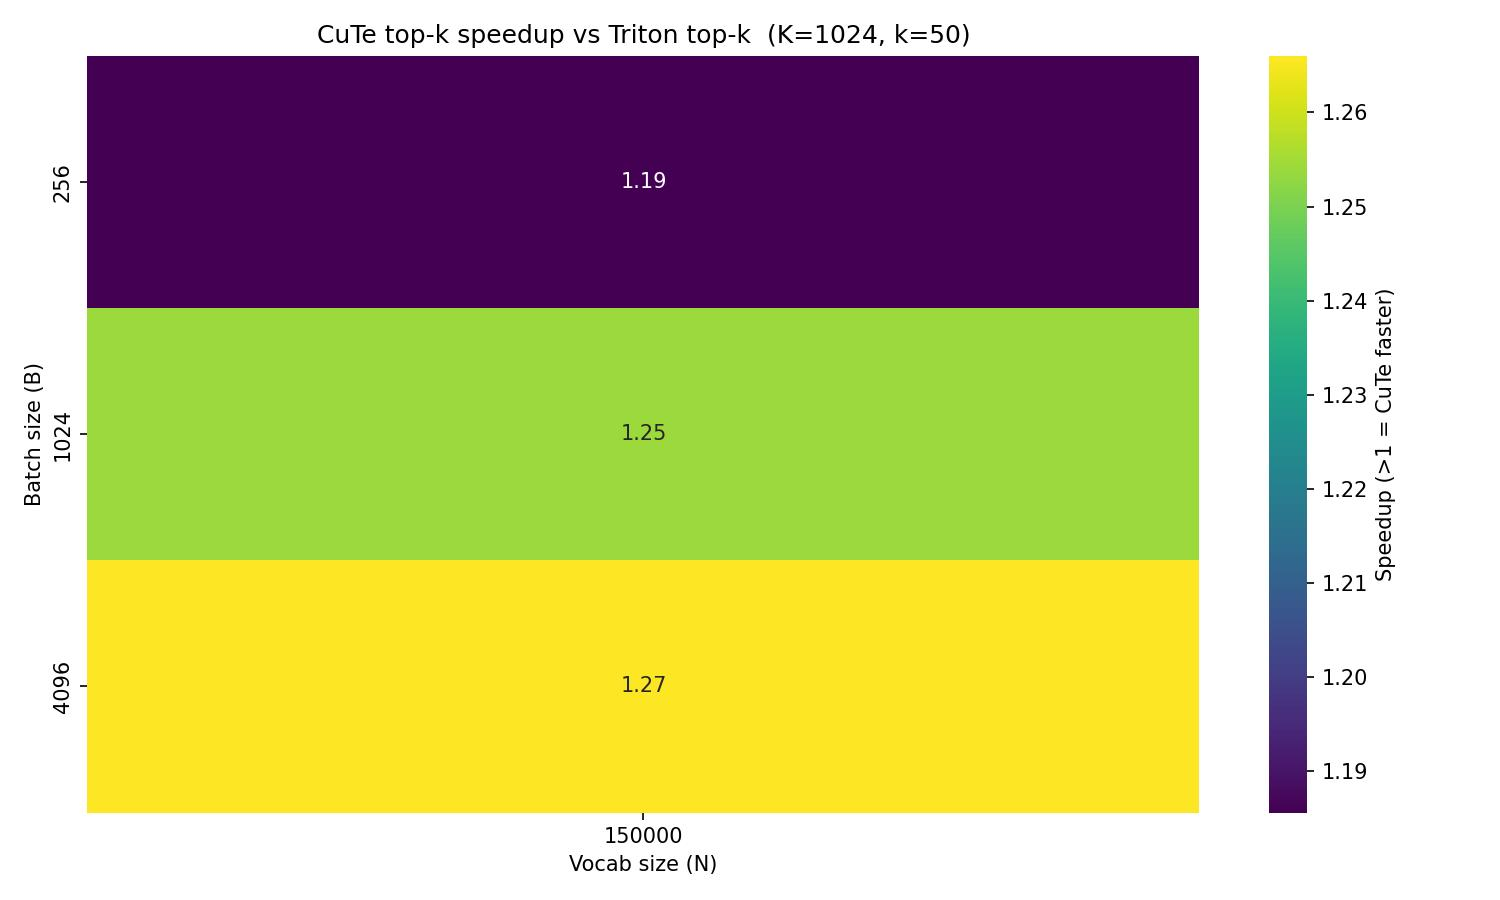
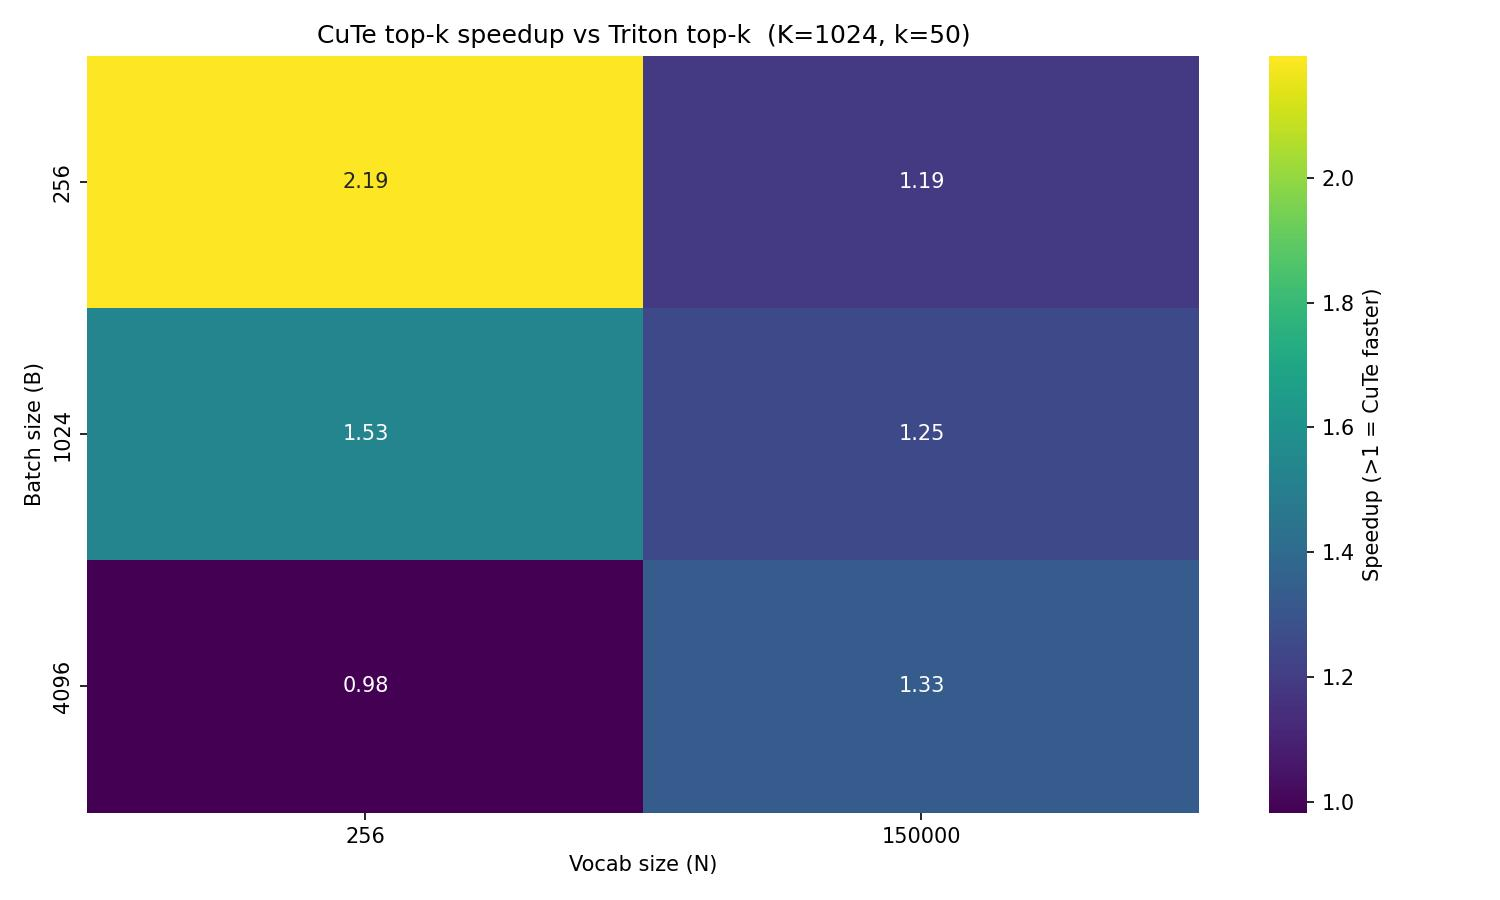
Update benchmark

diff --git a/examples/scripts/benchmark/benchmark_fused_sample.py b/examples/scripts/benchmark/benchmark_fused_sample.py
@@ -306,7 +306,7 @@ if __name__ == "__main__":
     os.makedirs("out", exist_ok=True)
 
     B_vals = [256, 1024, 4096]
-    N_vals = [150000]
+    N_vals = [256, 150000]
 
     print(
         f"Benchmarking K={K}, sparsity={args.sparsity}, topk={args.topk}, diverse_nodes={args.diverse_nodes}"
